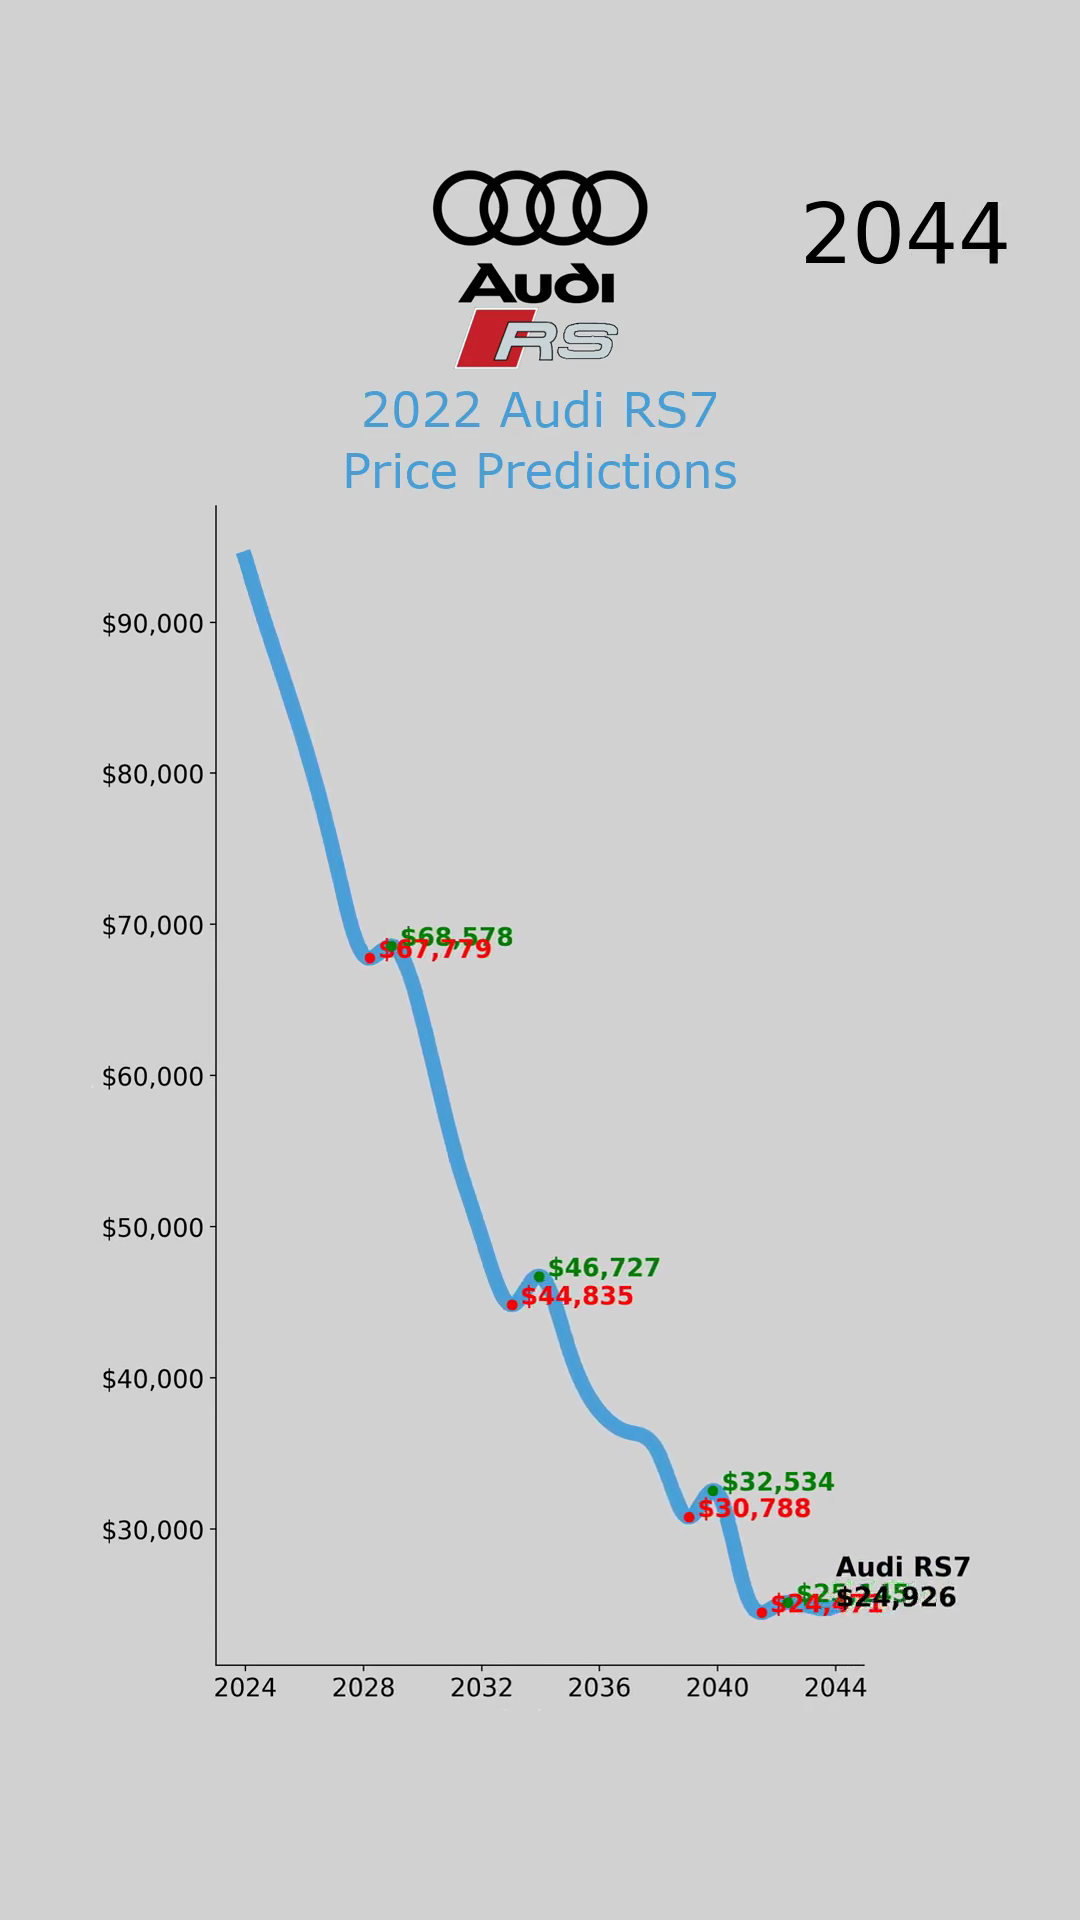
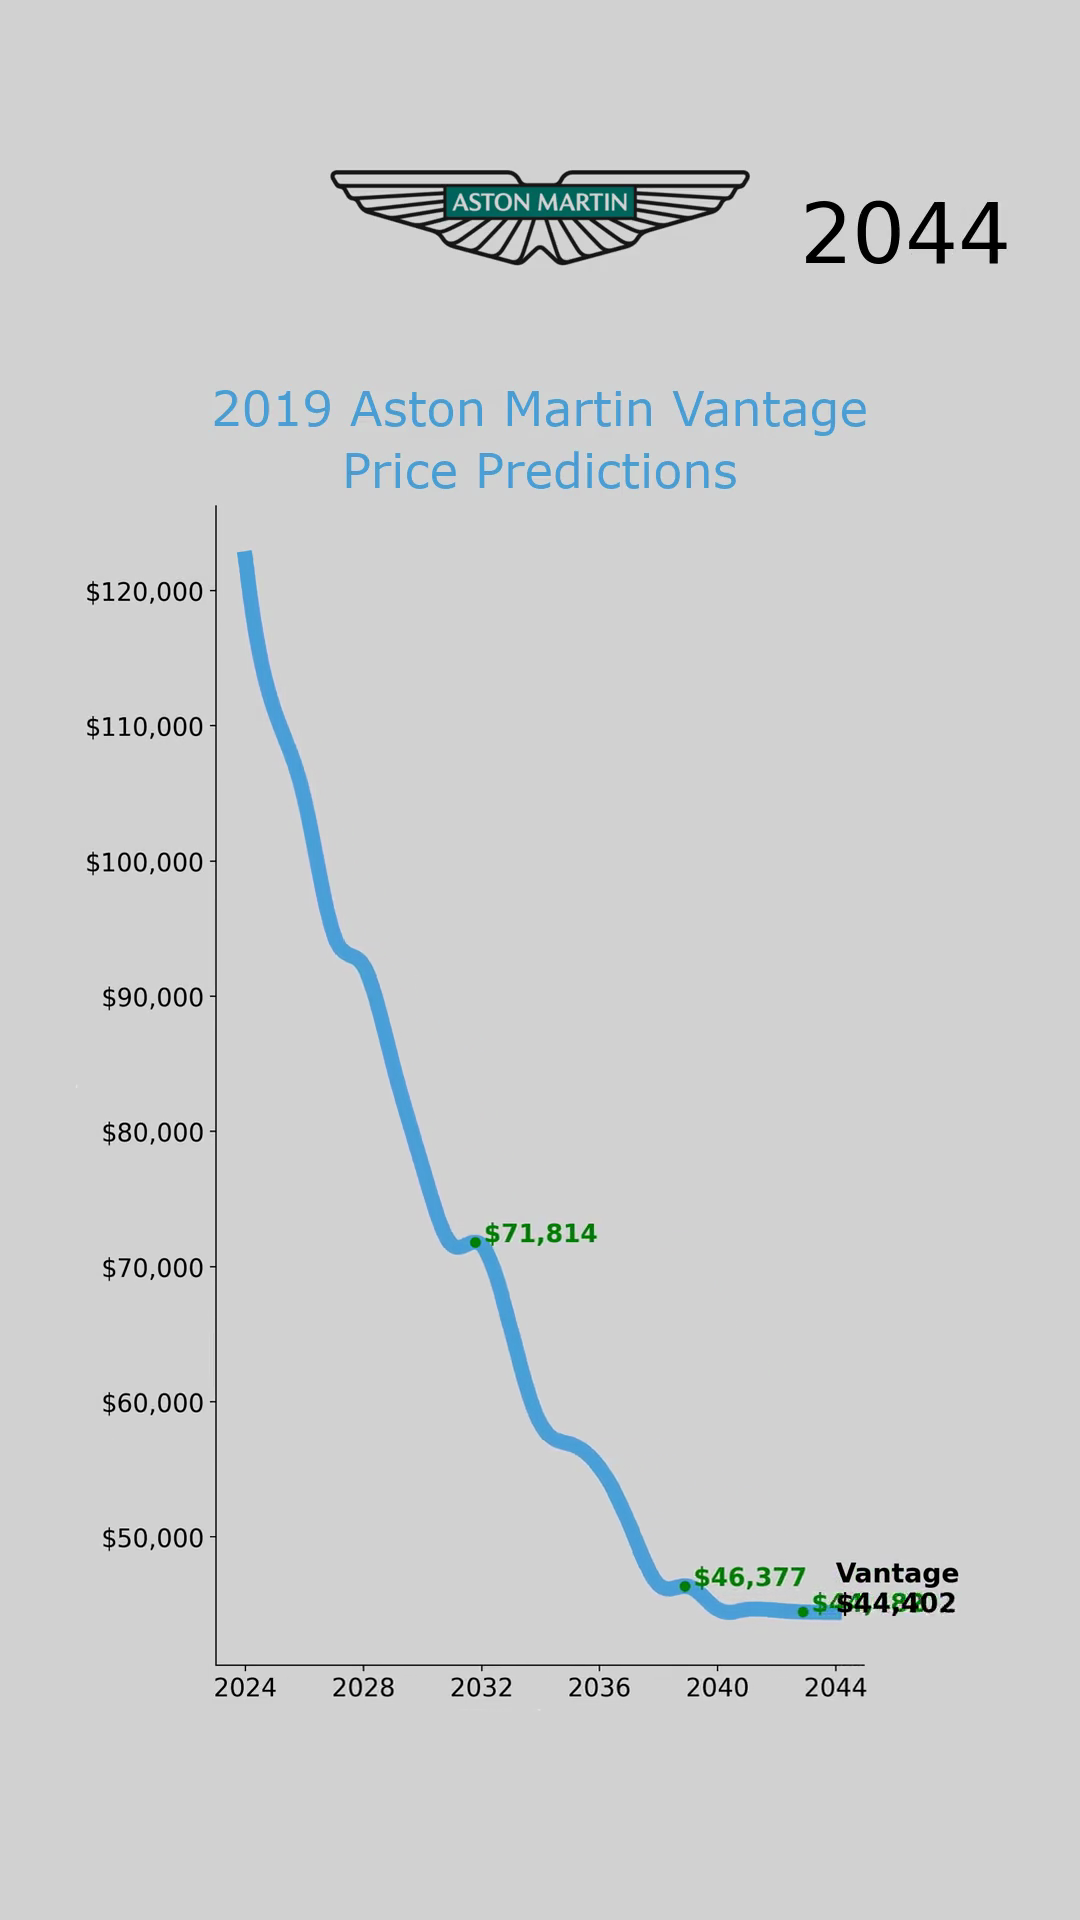
Minor updates

diff --git a/interpolate.py b/interpolate.py
@@ -32,12 +32,12 @@ frames = 500
 
 car1ImageName = ''
 car2ImageName = ''
-car3ImageName = 'Audi RS'
+car3ImageName = 'Aston Martin'
 
 # Shorter names to fit on the graph
 car1GraphName = ''
 car2GraphName = ''
-car3GraphName = 'Audi RS7'
+car3GraphName = 'Vantage'
 
 # Not used here but still used in multiple files
 car1 = '' # Place Holder

diff --git a/SingleGraph.py b/SingleGraph.py
@@ -37,7 +37,7 @@ y3_interp = read_csv_file('y3_interp.csv', False, 2)
 # Manual set maximumY
 #maximumY = 33000
 
-# Automatically set maximumY 1.5k above the highest price
+# Automatically set maximumY 1.8k above the highest price
 maximumY = max(y3_interp) + 1800
 
 startingYear = read_csv_file('startingYear.csv', False, 1)
